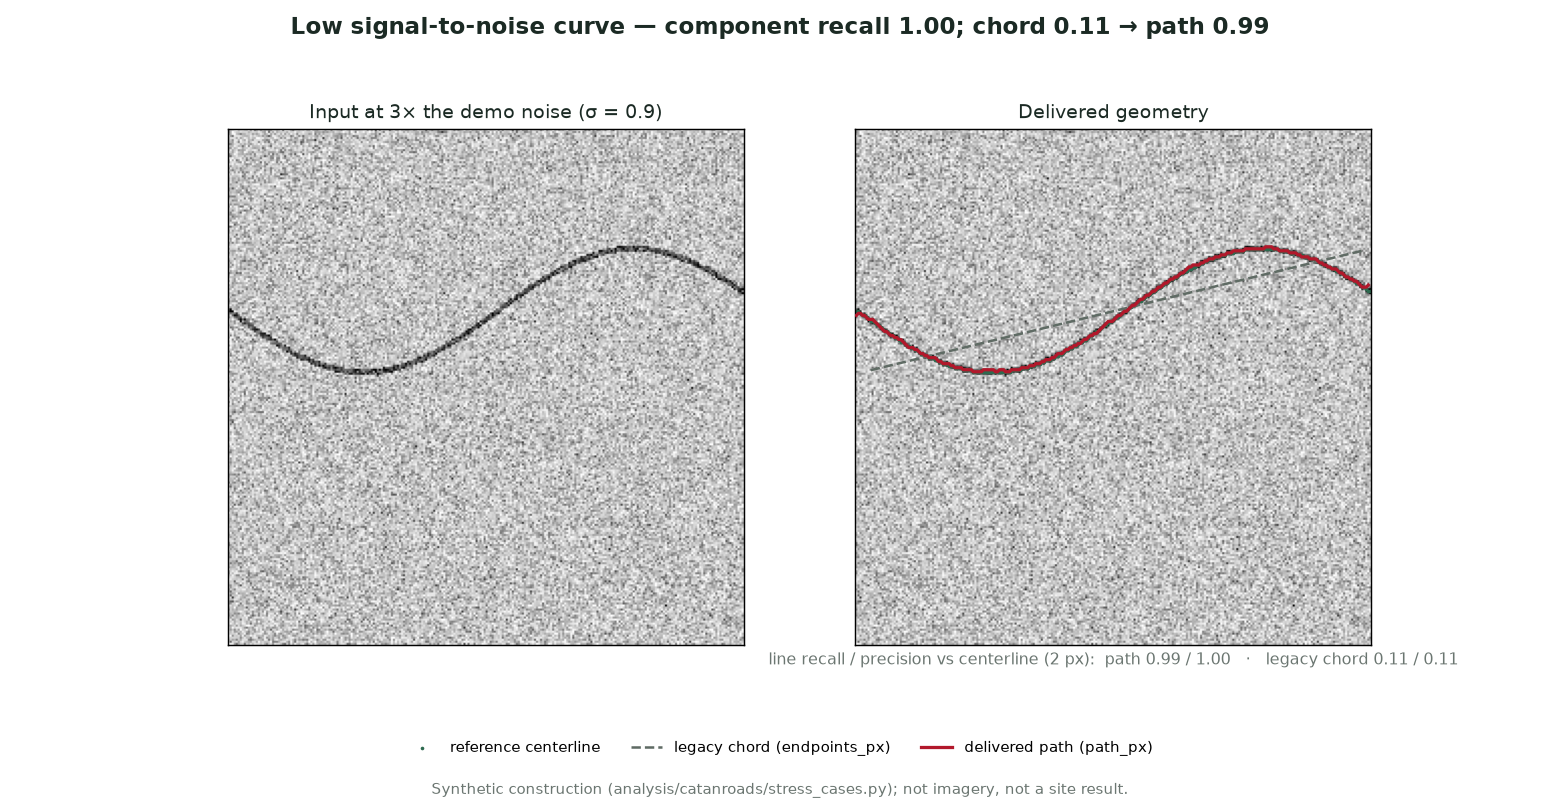
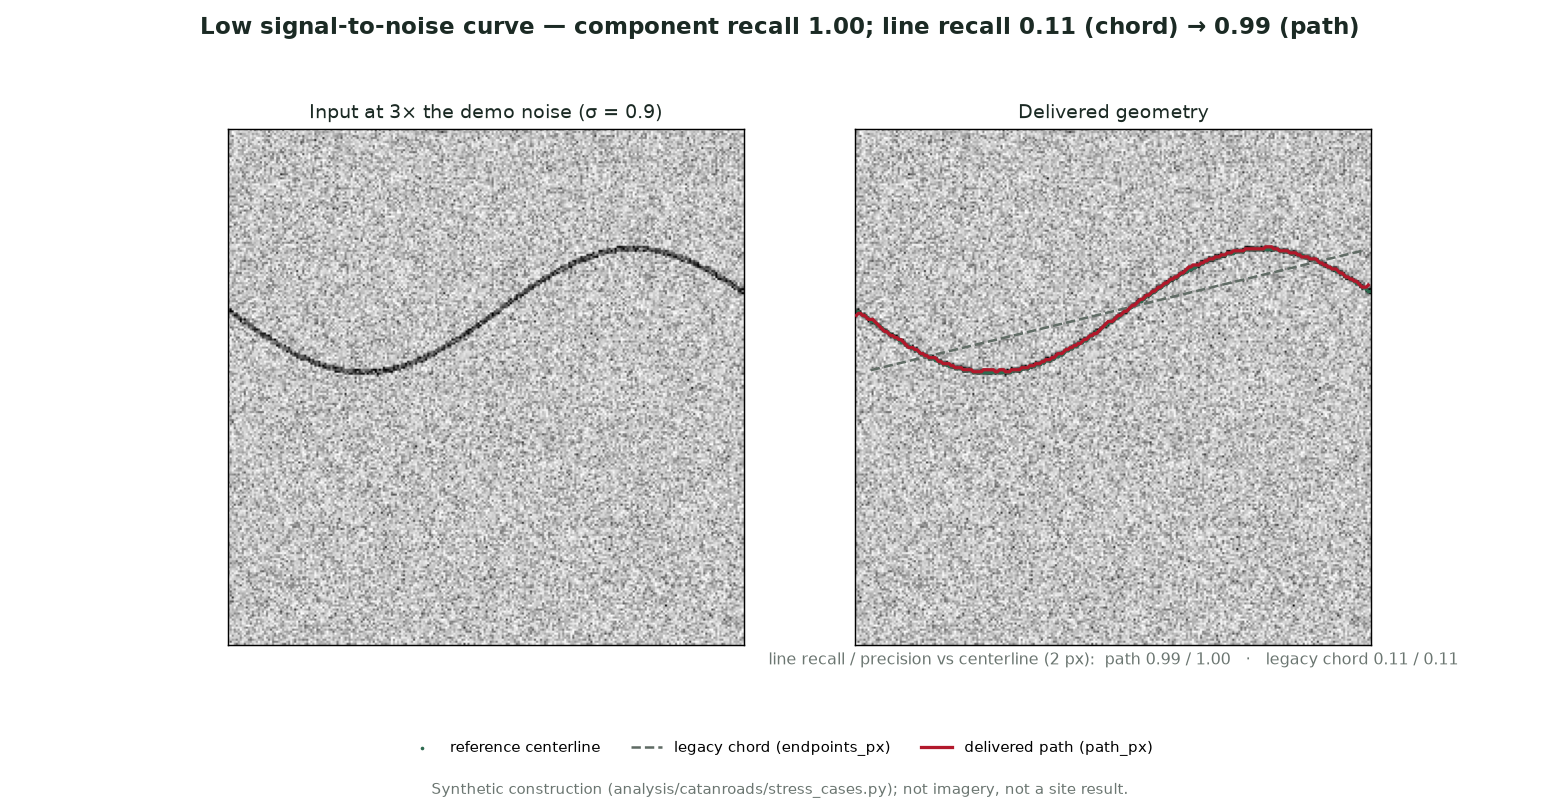
results: gallery review corrections — derive figure 4's headline from the record, label both layers in figure 5
Self-review findings from the week plan's Day 2 gallery read:
G1 figure 4's suptitle carried three hand-typed observed numbers (component
recall, chord and path line recall) that would silently go stale if the record
changed; they are now read from results/extractor_stress_cases.json like every
other number in the gallery.
G2 figure 5 labelled the missed cases 'recall 0.00' without saying which layer,
in the one figure whose subject is that the component and exported-line layers
differ; both are now named, wrapped to two lines so adjacent panels do not
collide.

No figure redesigned; 117 tests pass.

Changed region(s): [[0.1231, 0.0, 0.8615, 0.062]]

diff --git a/analysis/plot_stress_cases.py b/analysis/plot_stress_cases.py
@@ -93,13 +93,19 @@ def plot_all(out_dir):
     axes[0].imshow(d, cmap="Greys", vmin=-2, vmax=4); axes[0].set_title("Input at 3× the demo noise (σ = 0.9)", fontsize=10.5, color=INK)
     axes[0].set_xticks([]); axes[0].set_yticks([])
     draw(axes[1], d, cl, cands, "Delivered geometry", vmin=-2, vmax=4, note=scores("low_snr"))
-    written.append(finish(fig, "04_low_snr_curve", "Low signal-to-noise curve — component recall 1.00; chord 0.11 → path 0.99"))
+    c = rec["low_snr"]
+    written.append(finish(fig, "04_low_snr_curve", "Low signal-to-noise curve — component recall "
+                          f"{_f(c['pixel_recall'])}; line recall {_f(c['chord_line']['line_recall'])} (chord) → {_f(c['line_recall'])} (path)"))
     # 5 — what stays missed or fabricated
     fig, axes = plt.subplots(1, 3, figsize=(15, 5.6))
     for ax, name, label in zip(axes, ("crossing", "short_segments", "linear_confound_riverbank"),
                                ("Crossing: union component fails min_elongation", "Dashed track: each 9-px dash < min_length_px", "River-bank confound: delivered as the strongest candidate")):
         d, t, cl = SC.CASES[name](); cands = extract_candidates(d); c = rec[name]
-        draw(ax, d, cl, cands, label, note=f"{c['n_candidates']} candidate(s), {c['n_false_candidates']} false · " + (f"line precision {_f(c['line_precision'])}" if c["line_precision"] is not None else "recall 0.00"))
+        note = (f"{c['n_candidates']} candidate(s), {c['n_false_candidates']} false\n"
+                f"component recall {_f(c['pixel_recall'])} · line recall {_f(c['line_recall'])}")
+        if c["line_precision"] is not None:
+            note += f" / precision {_f(c['line_precision'])}"
+        draw(ax, d, cl, cands, label, note=note)
     written.append(finish(fig, "05_misses_and_confound", "What stays missed or fabricated by construction — unchanged by CR-09"))
     return written
 
